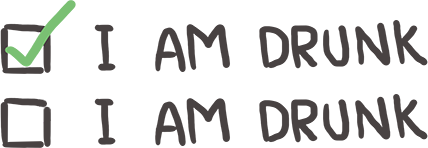
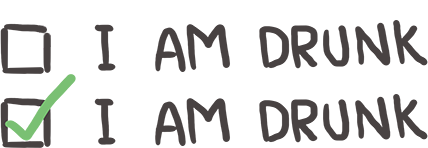
HAPPY MICHAEL?! HERE'S YOUR FUCKING STATE PERSISTANCE!

Changed region(s): [[0.0, 0.0, 0.1822, 0.4595], [0.0, 0.4865, 0.1822, 0.9459]]

diff --git a/index.html b/index.html
@@ -1,16 +1,16 @@
 <!DOCTYPE HTML>
 <html>
-    <head>
-        <meta charset="UTF-8" />
-        <title>IAMDRUNK.COM</title>
-        <style>
+	<head>
+		<meta charset="UTF-8" />
+		<title>IAMDRUNK.COM</title>
+		<style>
 			body {
-			    position: absolute;
+				position: absolute;
 				display: flex;
 				justify-content: center;
 				align-items: center;
-				top:0px;
-				bottom:0px;
+				top: 0px;
+				bottom: 0px;
 				left: 0px;
 				right: 0px;
 			}
@@ -18,21 +18,29 @@
 				height: 74px;
 				width: 428px;
 				background-image: url(IamDrunk.png);
-                background-position: 0% 100%;
-                margin-top:-24px;
+				margin-top: -24px;
 			}
 			.check {
-                background-position: 0% 0%;
+				background-position: 0% 100%;
 			}
-        </style>
-    </head>
-    <body>
-        <div></div>
-        <script src="https://ajax.googleapis.com/ajax/libs/jquery/2.1.4/jquery.min.js"></script>
-        <script>
+		</style>
+	</head>
+	<body>
+		<div></div>
+		<script src="https://ajax.googleapis.com/ajax/libs/jquery/2.1.4/jquery.min.js"></script>
+		<script>
+			var drunk = false;
 			$('div').click(function() {
-				$(this).toggleClass('check');
+				drunk = !drunk;
+				$(this).toggleClass('check', drunk);
+				if (localStorage)
+					localStorage.setItem("drunk", drunk);
 			});
-        </script>
-    </body>
+			if (localStorage)
+				if (localStorage.getItem("drunk") == "true") {
+					drunk = true;
+					$('div').toggleClass('check', drunk);
+				}
+		</script>
+	</body>
 </html>
